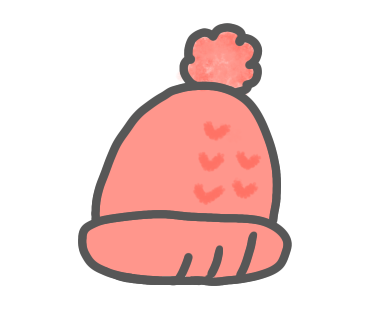
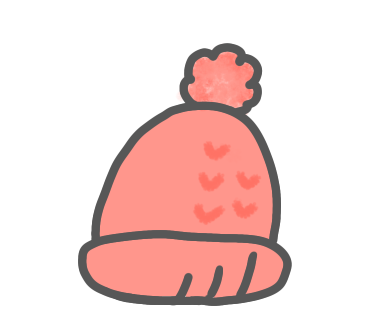
@

Changed region(s): [[0.2081, 0.0625, 0.8027, 0.9688]]

diff --git a/dapp.js b/dapp.js
@@ -5,19 +5,11 @@
 
 ToDo
 
-    貯金箱に資源表示
-        マウスオーバー時にお花+1000と表示する
-        グループに入れて表示/非表示をスムーズに。
-
-    帽子周りの整備
-        位置合わせ微調整で座標を決定する
-          * なにかモデル絵を対象にして座標を決定する
-        画像側をあわせる
-        帽子絵がそろってからか
-
-    帽子案
-        ぴこぴこ揺れるお花
-            classごとにお花の種類を変える？
+  * 重なり調整
+        depthを修正する
+        基本的には、y座表示準じればよいか
+        ボタン、帽子など、一部のものは再背面、最前面にdepthを設定する
+        https://gpnotes.hatenablog.jp/entry/2019/01/16/170100
 
     NFT Stakingのメカニズムの深慮
         自分の分身であるmini murasaki-sanをぬいぐるみとしてクラフトする
@@ -56,31 +48,12 @@ ToDo
             withdraw時に手形NFTを要求する
             withdraw時に報酬をtransferする
 
- ok ダイスシステムの深慮
-        ダイスのリセット時間について
-            1日か3日か、あるいは5日とか
-            1日だと、良いダイスを引く→クラフト、と進んでも、
-                クラフトが完了する3日目には別の目を振り直さないといけない
-            しかし、クラフト開始時に補正をかけるのはちょっと困難
-        補正方法について
-            すべての行動は、stop時にステータス補正がかかる
-            stopのtxを飛ばしたときのステータス、所持アイテムによって得られる結果が変わる
-            このシステムにおいて、ダイス目をどうやって自然に組み込むか
-                stopする前に運試しで振るのか
-                良い補正値を見てからstartするのか
-        4日間の平均値とする
-            24時間開くごとに0を代入する
-            24+24時間以内に次をロールすればペナルティ無し
-            ただし、24時間経過後は、ダイス振るは直近が0として計算される
-            24+24時間以内に次を降れば4つの平均値が補正値として採用される
-            → とにかく、こまめに振ることが最も高効率の設計
-            20時間経過後に次のダイスを触れる。
-                20～48時間以内に振れば、0代入のペナルティ無し。
-            ダイスには直近の値のみを表示させる
-            平均すると、こまめに振っていれば平均10＝+1レベル程度の補正
-      * ダイスコントラの更新
+    ポーチ絵の実装
+        貯金箱に準ずる
 
- ok マケプレへのアイコン表示の実装
+    帽子案
+        ぴこぴこ揺れるお花
+            classごとにお花の種類を変える？
 
     NFTの絵の実装
         pngをifgなどに格納するか
@@ -90,8 +63,6 @@ ToDo
 
   * わんころの顔塗る
 
-  * 重なり調整
-
     クラフトウィンドウの改善
         枠のデザイン再考
         アイテムアイコンを影絵にする？
@@ -99,21 +70,6 @@ ToDo
     看板デザインの変更
 
     Happy, Satiety, Expアイコンの変更
-
- ok IDを看板内に表示する
-
- ok ダイスの実装
-     ok 24時間でリセットされる
-            小さくカウントアップを表示するか
-            24時間後は補正0になる
-     ok クリックしてtx飛ばす
-            tx通れば値更新
-            d20の枠組み内に現在の数字を表示させるか
-     ok アニメーションが可能ならしてみたいが
-            ダイスらしく転がせられるだろうか
-            24時間経過前は転がる→必ず設定した値がでる
-            24時間経過後は、マウスオーバーで更新可能を示す絵に変わる
-                →クリックで値更新
 
     アイテム案
         食べ物
@@ -125,32 +81,6 @@ ToDo
         王冠
         とんがり帽子
         ぴろー帽子
-
-    帽子枠の実装
-      * summonerのすべてのアニメーションで、帽子の位置を決定する
-            左右で絵を変える
-     ok 帽子スプライトを1つだけ作成し、waringしているitemをそのスプライトに格納する
-            帽子スプライトの存在をチェックし、summoner()内でその都度描写する        
-            脱ぐときはdestroyする
-     ok 帽子は棚や壁ラックにかけておき、クリックでwaringする
-            visible=false, 帽子spriteをcreateでよいか
-            帽子sprite側はdestroy、対応するspriteをvisible=trueで棚に戻す
-     ok 帽子絵の規格を決定する
-            370x320はクリック領域が広く扱いにくい
-            80x80ぐらいか？
-
-    貯金箱システムの実装
-     ok 消費時、クラフト時に即座に反映されるように修正
-            1個以上持っていたらではなく、個数が変更されたら画面更新させる機構
-            消す（destroy）メカニズムの実装
-                個数が減ったら全削除→再描写
-                予めgroupへ格納しておく
-     ok Approveの実装
-            Function_craftingにcraftをapprove通さないとunpackできない
-            フロントエンド側でapproveを導入する
-            現状、upgrade用のapproveボタンを押さないとunpackできない。
-      * マウスオーバー時の絵の実装
-            中身が解かれてcoin/kusaが少し見えている絵
 
     pngファイルの軽量化
     
@@ -189,6 +119,83 @@ ToDo
         phaser3での色彩変化
         もしくは手動での色彩変化済み画像の用意
         あるいは、ユニークな色のアクセサリー
+        
+ ok 貯金箱に資源表示
+        マウスオーバー時にお花+1000と表示する
+        グループに入れて表示/非表示をスムーズに。
+
+ ok 帽子周りの整備
+        位置合わせ微調整で座標を決定する
+          * なにかモデル絵を対象にして座標を決定する
+        画像側をあわせる
+        帽子絵がそろってからか
+
+ ok ダイスシステムの深慮
+        ダイスのリセット時間について
+            1日か3日か、あるいは5日とか
+            1日だと、良いダイスを引く→クラフト、と進んでも、
+                クラフトが完了する3日目には別の目を振り直さないといけない
+            しかし、クラフト開始時に補正をかけるのはちょっと困難
+        補正方法について
+            すべての行動は、stop時にステータス補正がかかる
+            stopのtxを飛ばしたときのステータス、所持アイテムによって得られる結果が変わる
+            このシステムにおいて、ダイス目をどうやって自然に組み込むか
+                stopする前に運試しで振るのか
+                良い補正値を見てからstartするのか
+        4日間の平均値とする
+            24時間開くごとに0を代入する
+            24+24時間以内に次をロールすればペナルティ無し
+            ただし、24時間経過後は、ダイス振るは直近が0として計算される
+            24+24時間以内に次を降れば4つの平均値が補正値として採用される
+            → とにかく、こまめに振ることが最も高効率の設計
+            20時間経過後に次のダイスを触れる。
+                20～48時間以内に振れば、0代入のペナルティ無し。
+            ダイスには直近の値のみを表示させる
+            平均すると、こまめに振っていれば平均10＝+1レベル程度の補正
+      * ダイスコントラの更新
+
+ ok マケプレのアイコン表示の実装
+
+ ok IDを看板内に表示する
+
+ ok ダイスの実装
+     ok 24時間でリセットされる
+            小さくカウントアップを表示するか
+            24時間後は補正0になる
+     ok クリックしてtx飛ばす
+            tx通れば値更新
+            d20の枠組み内に現在の数字を表示させるか
+     ok アニメーションが可能ならしてみたいが
+            ダイスらしく転がせられるだろうか
+            24時間経過前は転がる→必ず設定した値がでる
+            24時間経過後は、マウスオーバーで更新可能を示す絵に変わる
+                →クリックで値更新
+
+ ok 帽子枠の実装
+      * summonerのすべてのアニメーションで、帽子の位置を決定する
+            左右で絵を変える
+     ok 帽子スプライトを1つだけ作成し、waringしているitemをそのスプライトに格納する
+            帽子スプライトの存在をチェックし、summoner()内でその都度描写する        
+            脱ぐときはdestroyする
+     ok 帽子は棚や壁ラックにかけておき、クリックでwaringする
+            visible=false, 帽子spriteをcreateでよいか
+            帽子sprite側はdestroy、対応するspriteをvisible=trueで棚に戻す
+     ok 帽子絵の規格を決定する
+            370x320はクリック領域が広く扱いにくい
+            80x80ぐらいか？
+
+ ok 貯金箱システムの実装
+     ok 消費時、クラフト時に即座に反映されるように修正
+            1個以上持っていたらではなく、個数が変更されたら画面更新させる機構
+            消す（destroy）メカニズムの実装
+                個数が減ったら全削除→再描写
+                予めgroupへ格納しておく
+     ok Approveの実装
+            Function_craftingにcraftをapprove通さないとunpackできない
+            フロントエンド側でapproveを導入する
+            現状、upgrade用のapproveボタンを押さないとunpackできない。
+      * マウスオーバー時の絵の実装
+            中身が解かれてcoin/kusaが少し見えている絵
 
  ok Petの行動の実装
         mining, farming時に一緒に働く
@@ -990,6 +997,67 @@ class Murasakisan extends Phaser.GameObjects.Sprite{
         }
     }
     update_item_wearing_hat() {
+
+        if (
+            this.mode == "resting"
+            || this.mode == "moving"
+            || this.mode == "hugging"
+            || this.mode == "hungry"
+            || this.mode == "crying"
+        ) {
+            item_wearing_hat.x = this.x;
+            item_wearing_hat.y = this.y - 65;
+        }else if (this.mode == "sleeping") {
+            item_wearing_hat.x = this.x - 20;
+            item_wearing_hat.y = this.y - 25;
+        }else if (this.mode == "mining" && this.submode == 1 && this.dist == "left") {
+            item_wearing_hat.x = this.x - 5;
+            item_wearing_hat.y = this.y - 50;
+        }else if (this.mode == "mining" && this.submode == 1 && this.dist == "right") {
+            item_wearing_hat.x = this.x + 5;
+            item_wearing_hat.y = this.y - 50;
+        }else if (this.mode == "mining" && this.submode == 2) {
+            item_wearing_hat.x = this.x + 32;
+            item_wearing_hat.y = this.y - 75;
+        }else if (this.mode == "farming" && this.submode == 1 && this.dist == "left") {
+            item_wearing_hat.x = this.x - 5;
+            item_wearing_hat.y = this.y + 15;
+        }else if (this.mode == "farming" && this.submode == 1 && this.dist == "right") {
+            item_wearing_hat.x = this.x + 5;
+            item_wearing_hat.y = this.y - 50;
+        }else if (this.mode == "farming" && this.submode == 2) {
+            item_wearing_hat.x = this.x + 25;
+            item_wearing_hat.y = this.y - 55;
+        }else if (this.mode == "crafting" && this.submode == 1 && this.dist == "left") {
+            item_wearing_hat.x = this.x - 5;
+            item_wearing_hat.y = this.y - 50;
+        }else if (this.mode == "crafting" && this.submode == 1 && this.dist == "right") {
+            item_wearing_hat.x = this.x + 7;
+            item_wearing_hat.y = this.y - 50;
+        }else if (this.mode == "crafting" && this.submode == 2) {
+            item_wearing_hat.x = this.x + 2;
+            item_wearing_hat.y = this.y - 80;
+        }else if (this.mode == "feeding" && this.submode == 1 && this.dist == "right") {
+            item_wearing_hat.x = this.x + 8;
+            item_wearing_hat.y = this.y - 55;
+        }else if (this.mode == "feeding" && this.submode == 1 && this.dist == "left") {
+            item_wearing_hat.x = this.x - 8;
+            item_wearing_hat.y = this.y - 55;
+        }else if (this.mode == "feeding" && this.submode == 3) {
+            item_wearing_hat.x = this.x - 2;
+            item_wearing_hat.y = this.y - 65;
+        }else if (this.mode == "grooming" && this.submode == 1 && this.dist == "right") {
+            item_wearing_hat.x = this.x + 8;
+            item_wearing_hat.y = this.y - 55;
+        }else if (this.mode == "grooming" && this.submode == 1 && this.dist == "left") {
+            item_wearing_hat.x = this.x - 8;
+            item_wearing_hat.y = this.y - 55;
+        }else if (this.mode == "grooming" && this.submode == 3) {
+            item_wearing_hat.x = this.x - 25;
+            item_wearing_hat.y = this.y + 45;
+        }
+
+        /*
         if (
             this.mode == "resting"
             || this.mode == "moving"
@@ -1056,6 +1124,7 @@ class Murasakisan extends Phaser.GameObjects.Sprite{
             item_wearing_hat.x -= 0;
             item_wearing_hat.y -= 60;
         }
+        */
 
     }
     update(){
@@ -1262,7 +1331,7 @@ class Dice extends Phaser.GameObjects.Sprite{
         this.count = 0;
         this.line_y = y;      //initial value of line_y, the same as first position of y
         this.line_y_max = 500;  //max floor position
-        this.line_y_min = 900;
+        this.line_y_min = 620;
         this.line_x_r = 1200;   //right side
         this.line_x_l = 50;     //left side
         //contract parameter
